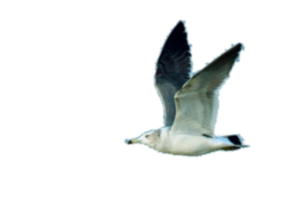
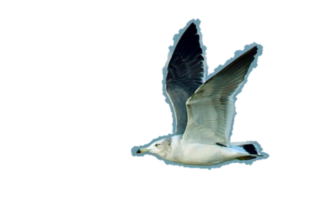
독도 낚시터: 누끼 다시 따고, 배경을 화면 전체로, 정보 사진 안 잘리게
누끼
- 생물이 깎여 무엇인지 알아보기 어려웠습니다. 배경을 지우는 기준을
  가장 약한 쪽부터 올려 가며 잡고, 생물 둘레에 테두리를 조금 남깁니다.
  지느러미·다리처럼 떨어져 보이는 부분도 함께 남깁니다.
- 독도새우는 흰 도마 위 사진이라 색이 옅고 밝은 곳을 지우는 방식을
  따로 썼습니다. 바다거북은 바위에 묻히지 않는 사진으로 바꿨습니다.

배경
- 하늘과 바다 색이 변하는 구간을 그림의 수면 위치에 맞춰,
  그림 좌우·위쪽과 색이 이어지게 했습니다.
- 아래쪽은 같은 그림을 위아래로 뒤집어 한 장 더 깔아서,
  화면 비율과 상관없이 바닥까지 배경이 채워집니다.

정보 팝업
- 사진이 잘려 무엇인지 알 수 없던 것을, 통째로 보이도록 바꿨습니다.
  도감 카드도 같습니다.

Changed region(s): [[0.48, 0.0603, 0.84, 0.6935], [0.51, 0.6935, 0.84, 0.8141], [0.39, 0.6633, 0.51, 0.7538]]

diff --git a/fishing.html b/fishing.html
@@ -191,7 +191,8 @@
   #book .panel .big{position:sticky;bottom:0;}
 
   /* 도감 */
-  #infoPic img{width:100%;max-height:min(26vh,200px);object-fit:cover;border-radius:18px;display:block;}
+  #infoPic img{width:100%;max-height:min(32vh,240px);object-fit:contain;background:#eaf3f8;
+    border-radius:18px;display:block;}
   #infoPic .draw{display:flex;align-items:center;justify-content:center;height:170px;
     background:#eef5fa;border-radius:18px;}
   #infoList{list-style:none;margin:0;padding:0;display:flex;flex-direction:column;gap:8px;}
@@ -200,7 +201,7 @@
   /* 도감이 길어져도 닫기 단추는 늘 아래에 붙어 있게 */
   #book .panel > .big{position:sticky;bottom:-20px;z-index:2;}
   #bookGrid{display:grid;grid-template-columns:repeat(auto-fill,minmax(150px,1fr));gap:10px;}
-  .bcard .ph{width:100%;height:84px;object-fit:cover;border-radius:10px;display:block;margin-bottom:4px;}
+  .bcard .ph{width:100%;height:84px;object-fit:contain;background:#eef5fa;border-radius:10px;display:block;margin-bottom:4px;}
   .bcard .ft{font-size:13px;color:#6b7a88;line-height:1.35;word-break:keep-all;margin-top:2px;}
   .bcard{
     background:#f5f9fd;border:3px solid #e3ebf3;border-radius:16px;padding:8px 4px;
@@ -234,16 +235,16 @@
        남는 자리는 아래 배경 사각형들을 넓게 그려서 채웁니다. -->
   <svg id="scene" viewBox="0 0 1000 700" preserveAspectRatio="xMidYMid meet" xmlns="http://www.w3.org/2000/svg">
     <defs>
-      <linearGradient id="sky" x1="0" y1="0" x2="0" y2="1">
+      <linearGradient id="sky" gradientUnits="userSpaceOnUse" x1="0" y1="118" x2="0" y2="262">
         <stop id="sky0" offset="0" stop-color="#bfe9ff"/><stop id="sky1" offset="1" stop-color="#e9f7ff"/>
       </linearGradient>
-      <linearGradient id="sea" x1="0" y1="0" x2="0" y2="1">
+      <linearGradient id="sea" gradientUnits="userSpaceOnUse" x1="0" y1="262" x2="0" y2="677">
         <stop id="sea0" offset="0" stop-color="#4bb3e8"/><stop id="sea1" offset="1" stop-color="#1668a8"/>
       </linearGradient>
       <radialGradient id="orbG"><stop id="orb0" offset="0" stop-color="#fff3b0"/><stop id="orb1" offset="1" stop-color="#ffd54a"/></radialGradient>
       <linearGradient id="deep" x1="0" y1="0" x2="0" y2="1">
-        <stop offset="0" stop-color="#51706a"/><stop offset=".3" stop-color="#3e5a57"/>
-        <stop offset="1" stop-color="#27403f"/>
+        <stop offset="0" stop-color="#4e6662"/><stop offset=".35" stop-color="#3e5a57"/>
+        <stop offset="1" stop-color="#2a4342"/>
       </linearGradient>
       <linearGradient id="fadeV" x1="0" y1="0" x2="0" y2="1">
         <stop offset="0" stop-color="#000"/><stop offset=".09" stop-color="#fff"/>
@@ -289,6 +290,8 @@
     <rect x="-1200" y="668" width="3400" height="700" fill="url(#deep)"/>
     <image id="bgPic" href="dokdo/bg.png" x="0" y="118" width="1000" height="559"
            preserveAspectRatio="none" mask="url(#bgFade)"/>
+    <image id="bgPic2" href="dokdo/bg.png" x="0" y="118" width="1000" height="559"
+           preserveAspectRatio="none" transform="translate(0,1354) scale(1,-1)" opacity=".9"/>
     <rect id="bgTint" x="-1200" y="-800" width="3400" height="2600" fill="#0a1937" opacity="0" pointer-events="none"/>
     <path id="wave" d="M0 262 q62 -16 125 0 t125 0 t125 0 t125 0 t125 0 t125 0 t125 0 t125 0 V300 H0Z" fill="#bfeaff" opacity=".22"/>
     <g id="shine" opacity=".45" fill="#bfeaff">
@@ -722,9 +725,9 @@ const CYCLE = {
   sea:[
     { t:0.00, sky:['#0b1533','#28406c'], sea:['#0f4a5e','#06212e'], orb:['#ffffff','#dfe7f5'], tint:['#0a1937',.55] }, // 밤
     { t:0.16, sky:['#42406e','#c98a86'], sea:['#2a6d7d','#0b3141'], orb:['#ffe9d0','#ffab7a'], tint:['#5a3c6e',.30] }, // 새벽
-    { t:0.32, sky:['#ffd9a8','#fff1de'], sea:['#6cc9c6','#13627f'], orb:['#fff3b0','#ffb45a'], tint:['#ffc78c',.14] }, // 아침
-    { t:0.52, sky:['#caebf4','#e6f5ef'], sea:['#7ed4ce','#156d94'], orb:['#fff3b0','#ffd54a'], tint:['#ffffff',.00] }, // 낮
-    { t:0.72, sky:['#ff9f6b','#ffd7a8'], sea:['#4f9fae','#0e4a63'], orb:['#fff0c0','#ff7e4a'], tint:['#ff8a3c',.20] }, // 노을
+    { t:0.32, sky:['#ffd9a8','#fff1de'], sea:['#6cc9c6','#44585a'], orb:['#fff3b0','#ffb45a'], tint:['#ffc78c',.14] }, // 아침
+    { t:0.52, sky:['#caebf4','#e3f3e7'], sea:['#7ed4ce','#86a295'], orb:['#fff3b0','#ffd54a'], tint:['#ffffff',.00] }, // 낮
+    { t:0.72, sky:['#ff9f6b','#ffd7a8'], sea:['#4f9fae','#35474a'], orb:['#fff0c0','#ff7e4a'], tint:['#ff8a3c',.20] }, // 노을
     { t:0.87, sky:['#4b3f78','#d98a72'], sea:['#235a70','#0a2a3a'], orb:['#ffd9c0','#ff8a5a'], tint:['#3c2d5f',.40] }, // 땅거미
     { t:1.00, sky:['#0b1533','#28406c'], sea:['#0f4a5e','#06212e'], orb:['#ffffff','#dfe7f5'], tint:['#0a1937',.55] }
   ],
@@ -791,6 +794,7 @@ function applyLook(){
     tn.setAttribute('opacity', 0);
   }
   $('bgPic').setAttribute('opacity', cfg.mode === 'ice' ? 0 : 1);
+  $('bgPic2').setAttribute('opacity', cfg.mode === 'ice' ? 0 : .9);
 
   /* 해는 0.20 에 왼쪽에서 떠서 0.86 에 오른쪽으로 지고,
      달은 그 사이(밤 동안)에 같은 길을 지나갑니다.

diff --git a/dokdo/README.md b/dokdo/README.md
@@ -5,10 +5,13 @@
 |---|---|---|
 | bg.png | 독도 바다 배경 | 선생님이 직접 준비한 그림 |
 
+화면 아래쪽은 같은 그림을 위아래로 뒤집어 한 장 더 깔아서,
+어떤 화면 비율에서도 바닥이 끊기지 않고 이어지게 했습니다.
+
 ## 생물 사진 (위키미디어 공용)
-자유 이용이 가능한 사진만 골랐습니다. **cut/** 은 같은 사진에서 배경을 지운 것이고,
+자유 이용이 가능한 사진만 골랐습니다.
+**cut/** 은 같은 사진에서 배경을 지운 것(헤엄치는 모습),
 **photo/** 는 도감과 정보 팝업에 쓰는 원본입니다.
-CC BY 계열은 만든 이를 아래에 적어 두었습니다.
 
 | 생물 | 파일 | 라이선스 | 만든 이 | 원본 |
 |---|---|---|---|---|
@@ -20,13 +23,13 @@ CC BY 계열은 만든 이를 아래에 적어 두었습니다.
 | 문어 | photo/octopus.jpg · cut/octopus.png | CC BY-SA 3.0 | Kirt L. Onthank | [E dofleini closeup.jpg](https://commons.wikimedia.org/wiki/File:E_dofleini_closeup.jpg) |
 | 성게 | photo/urchin.jpg · cut/urchin.png | CC BY-SA 3.0 | André-Philippe D. Picard | [Face orale oursin vert (Strongylocentrot](https://commons.wikimedia.org/wiki/File:Face_orale_oursin_vert_(Strongylocentrotus_droebachiensis).jpg) |
 | 불가사리 | photo/star.jpg · cut/star.png | CC BY 3.0 | division, CSIRO | [CSIRO ScienceImage 873 Asterias amurensi](https://commons.wikimedia.org/wiki/File:CSIRO_ScienceImage_873_Asterias_amurensis_Northern_Pacific_Seastar.jpg) |
-| 바다거북 | photo/turtle.jpg · cut/turtle.png | CC BY-SA 3.0 | Tokugawapants at English Wikipedia + PiccoloN | [GreenSeaTurtle-2.jpg](https://commons.wikimedia.org/wiki/File:GreenSeaTurtle-2.jpg) |
+| 바다거북 | photo/turtle.jpg · cut/turtle.png | CC BY-SA 3.0 | Brocken Inaglory | [Green turtle swimming in Kona May 2010.j](https://commons.wikimedia.org/wiki/File:Green_turtle_swimming_in_Kona_May_2010.jpg) |
 | 소라 | photo/conch.jpg · cut/conch.png | Public domain | Takahashi | [Turbo cornutus 1.jpg](https://commons.wikimedia.org/wiki/File:Turbo_cornutus_1.jpg) |
 | 전복 | photo/abalone.jpg · cut/abalone.png | Public domain | Jan Delsing | [Haliotis discus.jpg](https://commons.wikimedia.org/wiki/File:Haliotis_discus.jpg) |
 | 괭이갈매기 | photo/gull.jpg · cut/gull.png | CC BY 2.0 | Andy Reago &amp; Chrissy McClarren | [Black-tailed Gull (23698697404).jpg](https://commons.wikimedia.org/wiki/File:Black-tailed_Gull_(23698697404).jpg) |
 
 ## 그림 (openclipart, CC0 퍼블릭 도메인)
-사진이 없는 친구(야광 물고기·해파리·빙어·펭귄)와 예비용으로 둔 그림들입니다.
+사진이 없는 친구(야광 물고기·해파리·빙어·펭귄)와 예비용 그림입니다.
 
 | 파일 | 원본 |
 |---|---|
@@ -42,6 +45,8 @@ CC BY 계열은 만든 이를 아래에 적어 두었습니다.
 | urchin.svg | https://openclipart.org/detail/354943/urchin |
 | gull.svg | https://openclipart.org/detail/320405/seagull-standing |
 
-## 배경 지우기(누끼)
-사진마다 가장자리에서 색이 비슷한 부분을 따라가며 배경을 지우고,
-가장 큰 덩어리만 남기는 방법으로 만들었습니다.
+## 배경 지우기(누끼) 방법
+가장자리에서 색이 비슷한 부분만 조심스럽게 지우고,
+생물이 깎이지 않도록 **테두리를 조금 남겨 두었습니다**.
+지느러미·다리처럼 떨어져 보이는 부분도 큰 덩어리의 8% 이상이면 함께 남깁니다.
+독도새우만은 흰 도마 위 사진이라, 색이 옅고 밝은 곳을 지우는 방식을 따로 썼습니다.
